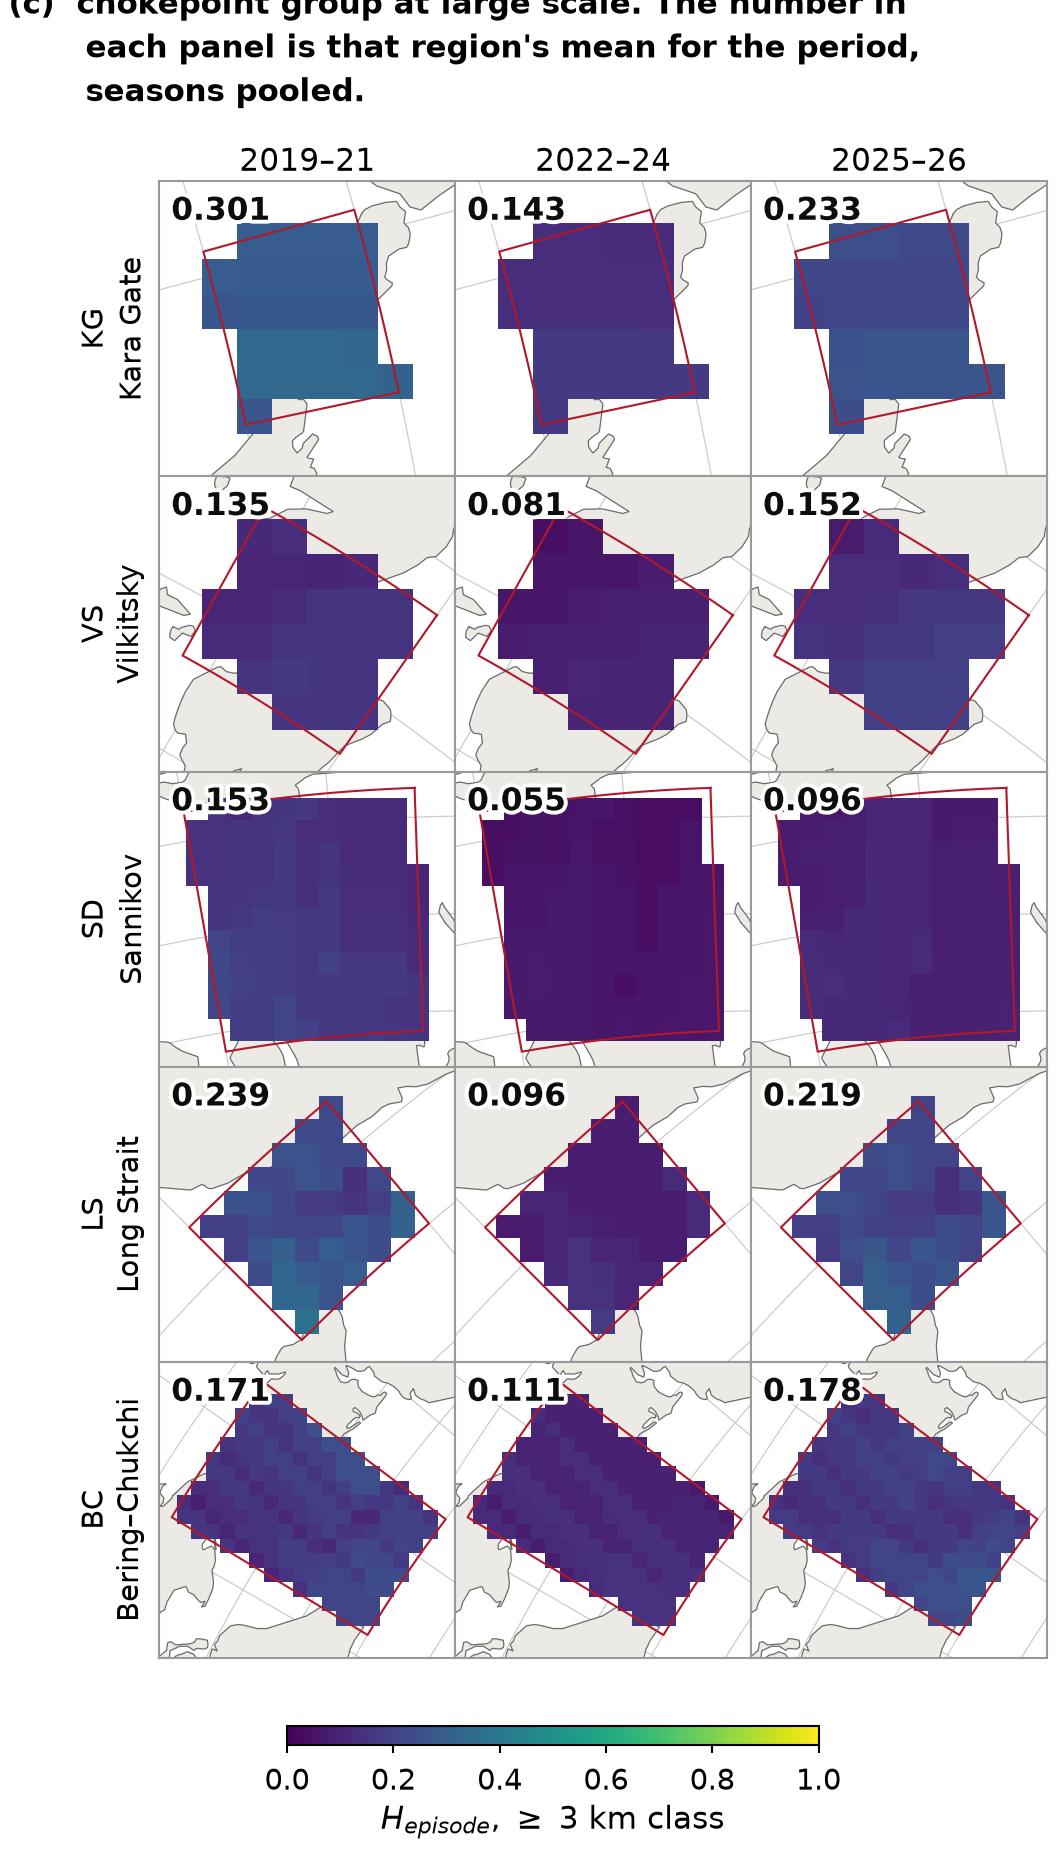
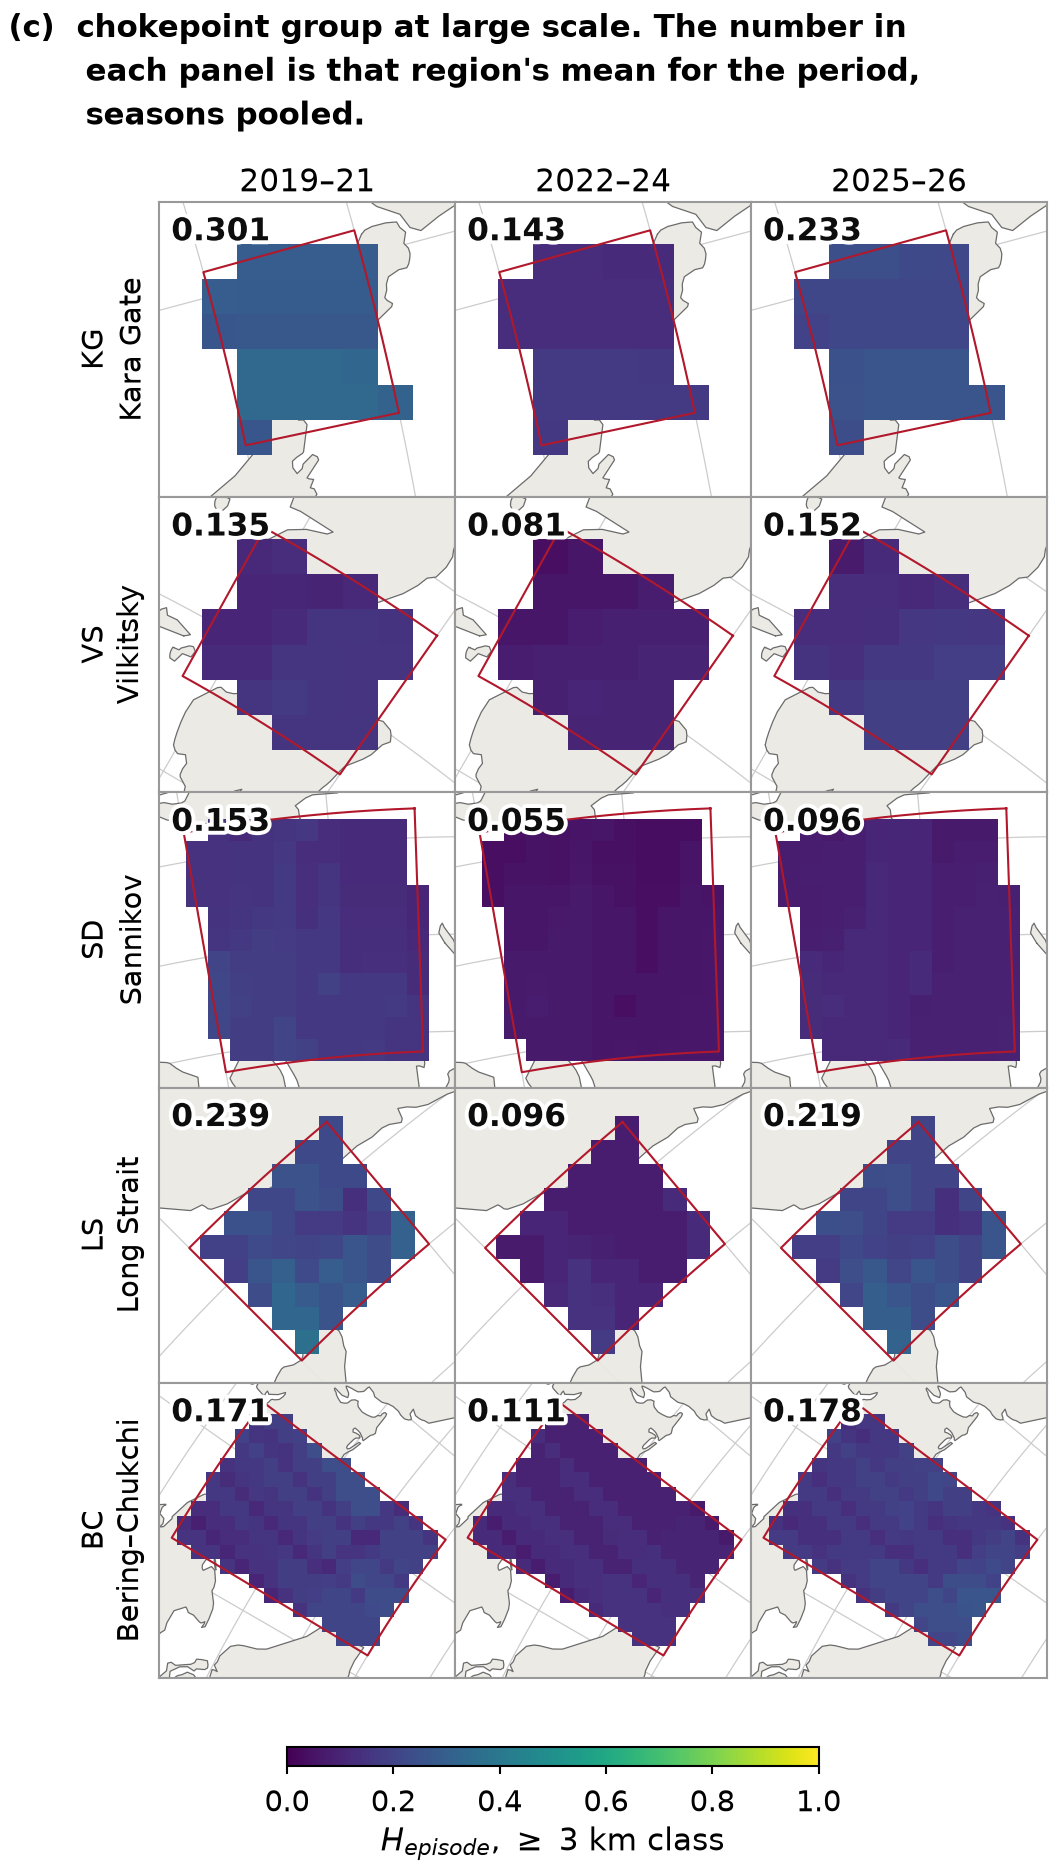
ARC-P14-3: Fig. 3(c) chokepoint strip, 90 mm, five regions x three periods with region-period means printed

diff --git a/arctic_explore/scratch/P14/f03c.py b/arctic_explore/scratch/P14/f03c.py
@@ -34,7 +34,7 @@ A = A[A.region.isin(M.CH)].copy(); A["per"] = A.year.map(per); A = A[A.per.notna
 MEAN = A.groupby(["region", "per"]).H_episode3.mean().to_dict()
 
 SIDE = M.CELL / 1e3
-L, RGT, TOPM, CB = 0.150, 0.015, 0.098, 0.105
+L, RGT, TOPM, CB = 0.150, 0.015, 0.108, 0.105
 pw = (1 - L - RGT) / 3
 asp = float(np.mean([(d - c) / (b - a) for r in M.CH
                      for (a, b), (c, d) in [M.region_extent(r, 30)]]))
@@ -78,9 +78,9 @@ cb = fig.colorbar(ScalarMappable(norm=F.H_NORM, cmap=F.H_CMAP), cax=cax,
                   orientation="horizontal")
 cb.set_ticks([0, 0.2, 0.4, 0.6, 0.8, 1.0]); cb.ax.tick_params(labelsize=7)
 cb.set_label("$H_{episode}$, $\\geq$ 3 km class", fontsize=7.5, labelpad=2)
-fig.text(0.008, 1 - 0.062,
+fig.text(0.008, 0.996,
          "(c)  chokepoint group at large scale. The number in\n"
          "       each panel is that region's mean for the period,\n"
          "       seasons pooled.",
-         fontsize=7.5, fontweight="bold", va="bottom", ha="left", linespacing=1.4)
+         fontsize=7.5, fontweight="bold", va="top", ha="left", linespacing=1.4)
 F.save(fig, "fig03c_chokepoint_strip.png", F.W1)
